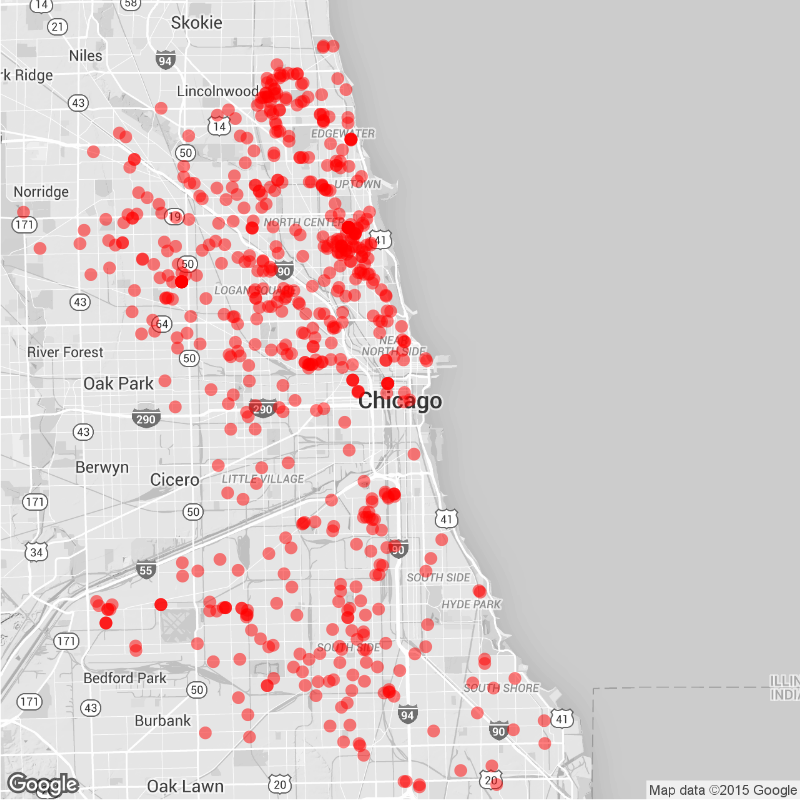
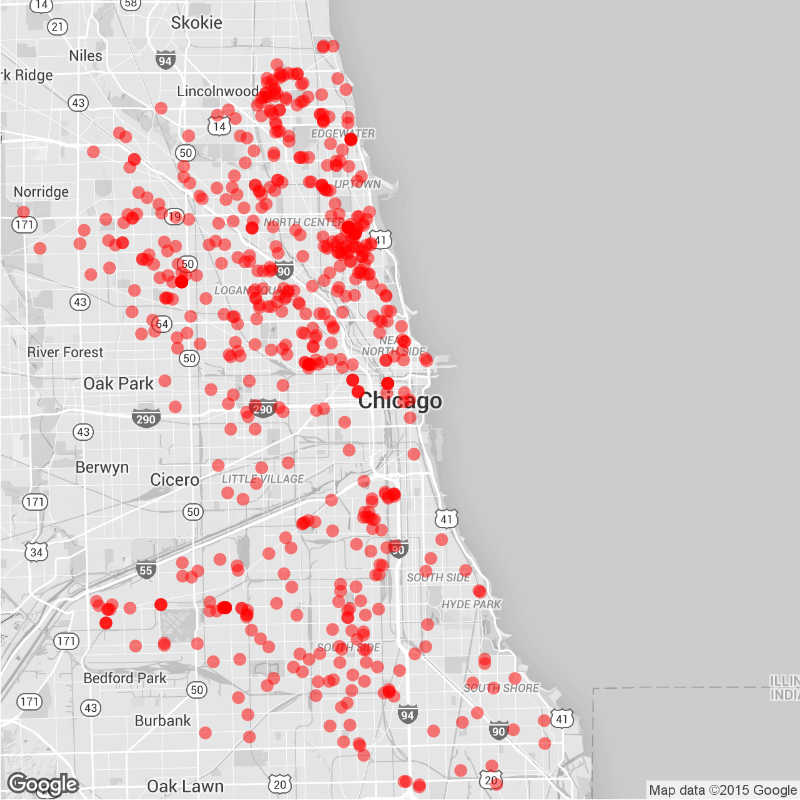
Daily Maps

diff --git a/daily.md b/daily.md
@@ -15,22 +15,22 @@ tags: Chicago NYC weekly daily rats
 
 ### Daily
 
-Yesterday (November 20), there were 88 calls to Chicago's 311 line about rats.
+Yesterday (November 21), there were 20 calls to Chicago's 311 line about rats.
 ![Chicago rat calls to 311 weekly map]({{ site.cityimages }}/daily/Chicago_Rat_Map_Daily.png)
 
 ### Weekly
-Between November 14 and November 20, there were 622 calls to Chicago's 311 line about rats. The average number of weekly calls for this time of year is 433.
+Between November 15 and November 21, there were 615 calls to Chicago's 311 line about rats. The average number of weekly calls for this time of year is 433.
 ![Chicago rat calls to 311 weekly map]({{ site.cityimages }}/daily/Chicago_Rat_Map_Weekly.png)
 ***
 # New York City <a id="nyc"><a>
 
 ### Daily
 
-Yesterday (November 20), there were 0 calls to New York City's 311 line about rats.
+Yesterday (November 21), there were 0 calls to New York City's 311 line about rats.
 ![NYC rat calls to 311 weekly map]({{ site.cityimages }}/daily/NYC_Rat_Map_Daily.png)
 
 ### Weekly
-Between November 14 and November 20, there were 0 calls to New York City's 311 line about rats. The average number of weekly calls for this time of year is 150.
+Between November 15 and November 21, there were 0 calls to New York City's 311 line about rats. The average number of weekly calls for this time of year is 150.
 ![NYC rat calls to 311 weekly map]({{ site.cityimages }}/daily/NYC_Rat_Map_Weekly.png)
 
 Each red dot represents one call about a rat seen in that location. The dots are transparent, so multiple calls from one location will be seen as a solid dot. The usual caveats apply: more calls do not necessarily mean that there are more rats in that location than other parts of the city. A cluster of dots could indicate that one resident is unusually vocal about rodents in his or her neighborhood. Also, more densely populated neighborhoods tend to make more calls to 311.
